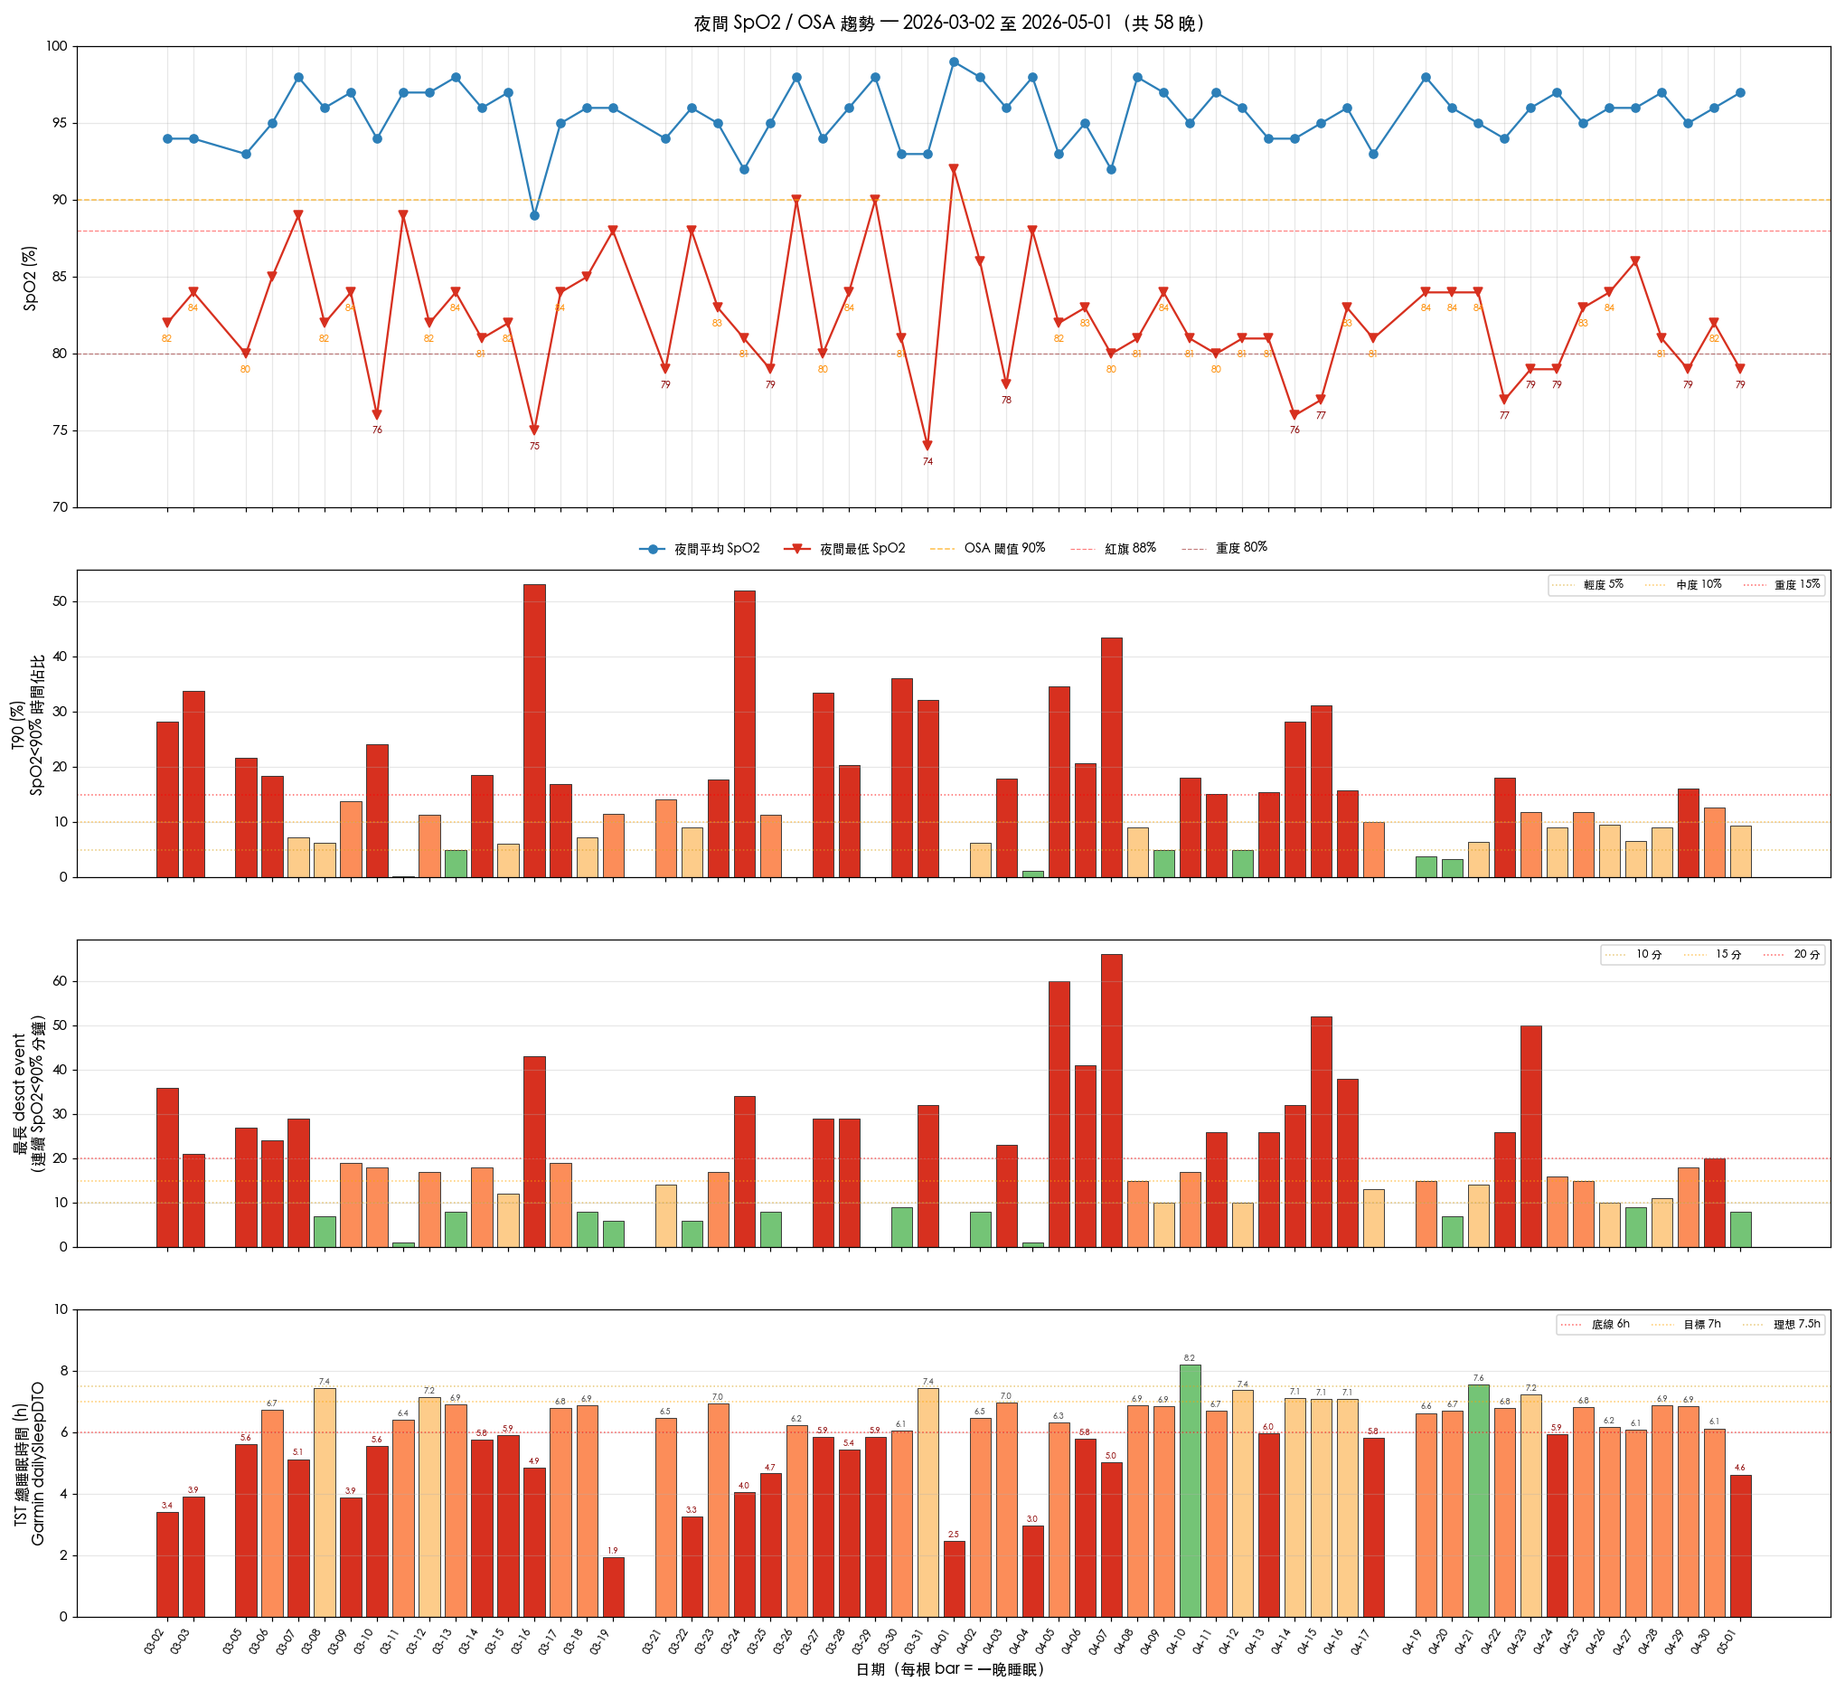
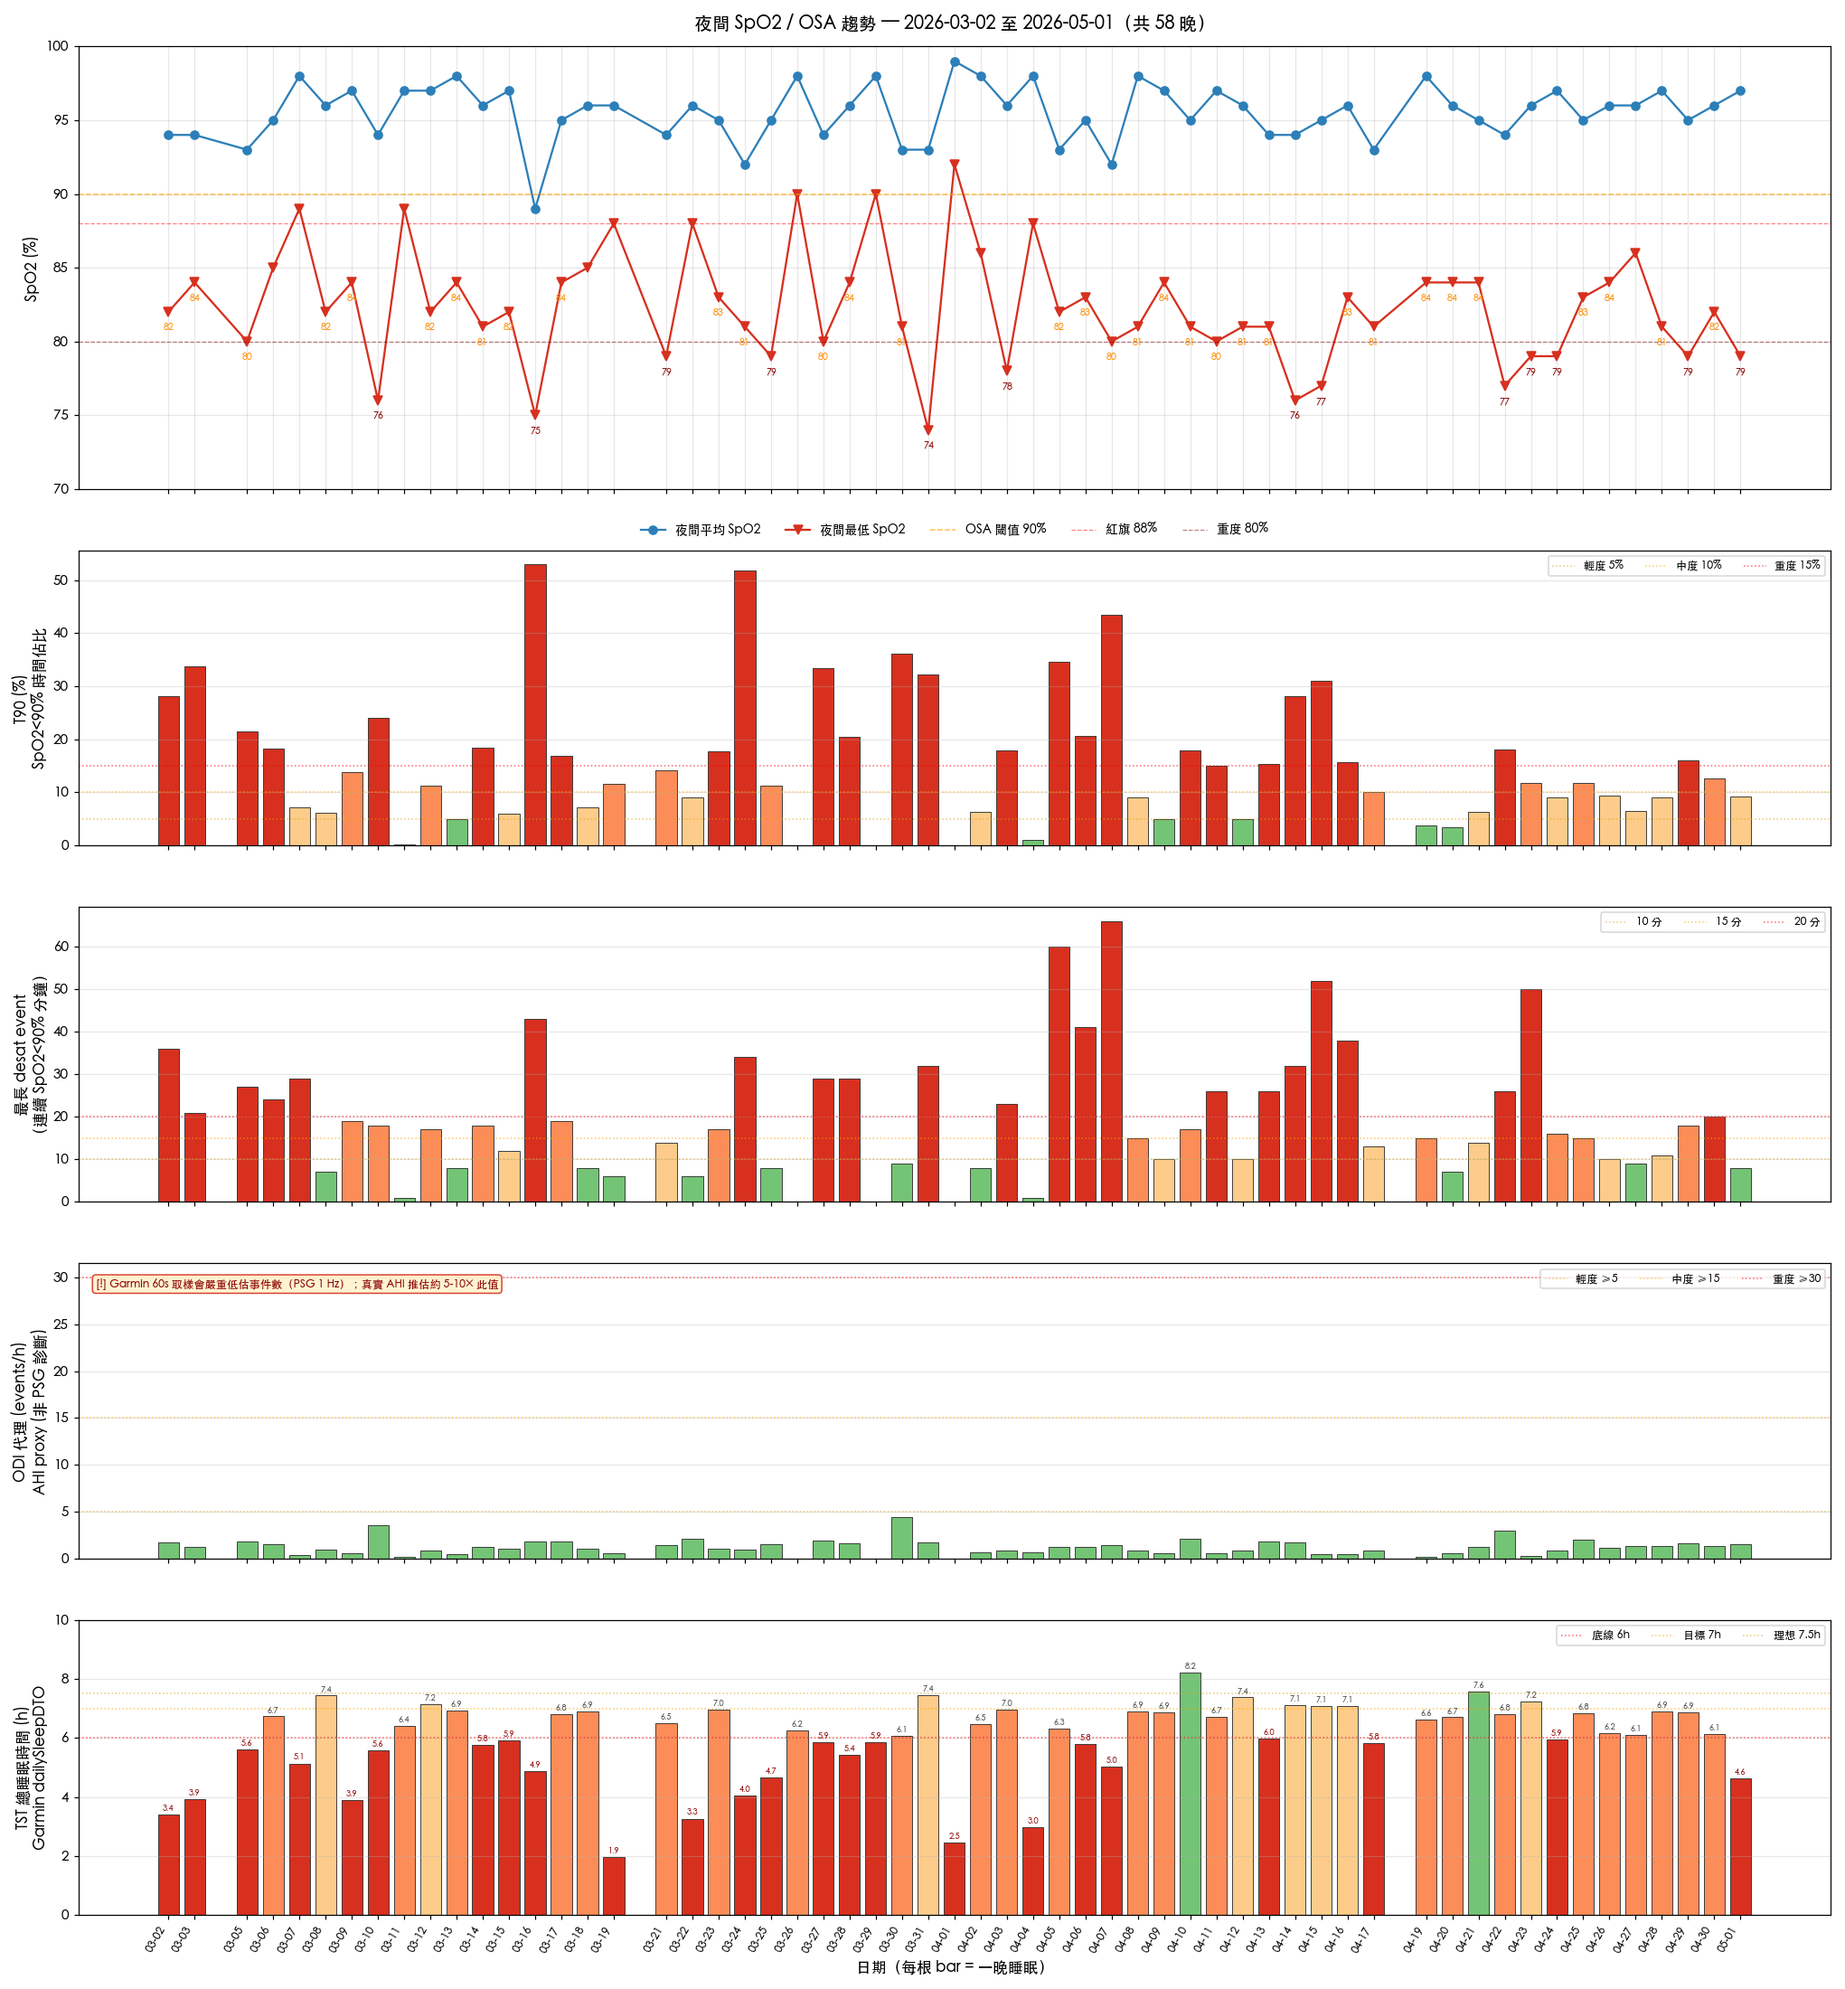
feat(spo2): add ODI (AHI proxy) panel with sampling-rate caveat
- 5th panel shows ODI = events/sleep-hour with AASM severity bands
  (<5 normal, 5-15 mild, 15-30 moderate, >=30 severe)
- Inline warning: Garmin 60s epoch under-counts events vs PSG 1Hz;
  true AHI estimated 5-10x displayed value
- 58-night dataset shows ODI 100% in "normal" band (avg 1.2/h),
  but T90 >= 10% in 60% nights - the discordance is itself a
  sampling artefact, not a sign of mild OSA

diff --git a/scripts/analyze_spo2_desats.py b/scripts/analyze_spo2_desats.py
@@ -252,6 +252,8 @@ def cmd_trend(days: int = 9999, out: Path = None):
     t90s = [r["t90"] for r in rows]
     longest_ev = [r["longest"] for r in rows]
     tsts = [r["tst"] / 60 for r in rows]  # 小時
+    # ODI 代理（AHI proxy）= 每睡眠小時 desat events 數
+    odi = [r["events"] / (r["tst"] / 60) if r["tst"] > 0 else 0 for r in rows]
 
     def color_t90(v):
         if v >= 15: return "#d7301f"
@@ -272,9 +274,16 @@ def cmd_trend(days: int = 9999, out: Path = None):
         if v < 7.5: return "#fdcc8a"
         return "#74c476"
 
+    def color_odi(v):
+        # AASM 嚴重度切點
+        if v >= 30: return "#d7301f"
+        if v >= 15: return "#fc8d59"
+        if v >= 5:  return "#fdcc8a"
+        return "#74c476"
+
     width = max(16, len(dates) * 0.32)
-    fig, axes = plt.subplots(4, 1, figsize=(width, 17),
-                              sharex=True, gridspec_kw={"height_ratios": [3, 2, 2, 2]})
+    fig, axes = plt.subplots(5, 1, figsize=(width, 20),
+                              sharex=True, gridspec_kw={"height_ratios": [3, 2, 2, 2, 2]})
 
     # Panel 1: SpO2 lowest + avg
     ax = axes[0]
@@ -320,8 +329,30 @@ def cmd_trend(days: int = 9999, out: Path = None):
     ax.grid(alpha=0.3, axis="y")
     ax.legend(loc="upper right", fontsize=8, ncol=3)
 
-    # Panel 4: TST (Total Sleep Time)
+    # Panel 4: ODI (AHI proxy) = events per sleep-hour
     ax = axes[3]
+    colors = [color_odi(v) for v in odi]
+    ax.bar(dates, odi, color=colors, edgecolor="#333", linewidth=0.6, width=0.8)
+    ax.axhline(5,  color="goldenrod", linestyle=":", linewidth=1.0, alpha=0.6, label="輕度 ≥5")
+    ax.axhline(15, color="orange",    linestyle=":", linewidth=1.0, alpha=0.6, label="中度 ≥15")
+    ax.axhline(30, color="red",       linestyle=":", linewidth=1.0, alpha=0.6, label="重度 ≥30")
+    for d, v in zip(dates, odi):
+        if v >= 5:
+            ax.annotate(f"{v:.1f}", xy=(d, v), xytext=(0, 2),
+                        textcoords="offset points", ha="center", fontsize=6,
+                        color="darkred" if v >= 15 else "#444")
+    ax.set_ylabel("ODI 代理 (events/h)\nAHI proxy (非 PSG 診斷)", fontsize=11)
+    ax.grid(alpha=0.3, axis="y")
+    ax.legend(loc="upper right", fontsize=8, ncol=3)
+    # 警示：Garmin 60s epoch 嚴重低估事件數
+    ax.text(0.01, 0.95,
+            "[!] Garmin 60s 取樣會嚴重低估事件數（PSG 1 Hz）；真實 AHI 推估約 5-10× 此值",
+            transform=ax.transAxes, fontsize=8, color="darkred",
+            verticalalignment="top",
+            bbox=dict(boxstyle="round,pad=0.3", fc="#fff3cd", ec="#d7301f", alpha=0.9))
+
+    # Panel 5: TST (Total Sleep Time)
+    ax = axes[4]
     colors = [color_tst(v) for v in tsts]
     ax.bar(dates, tsts, color=colors, edgecolor="#333", linewidth=0.6, width=0.8)
     ax.axhline(6,   color="red",       linestyle=":", linewidth=1.0, alpha=0.6, label="底線 6h")
